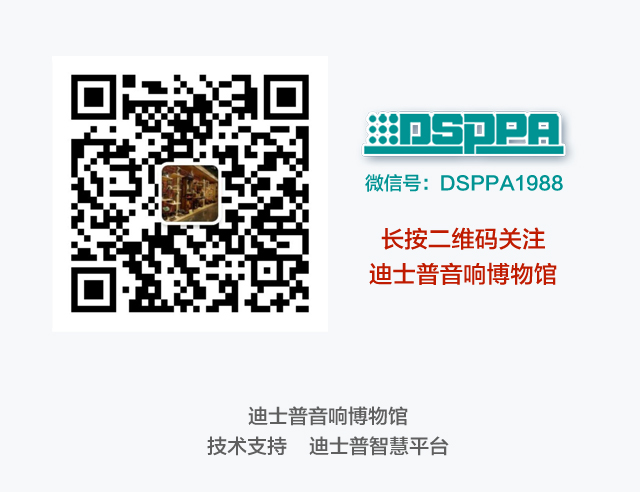
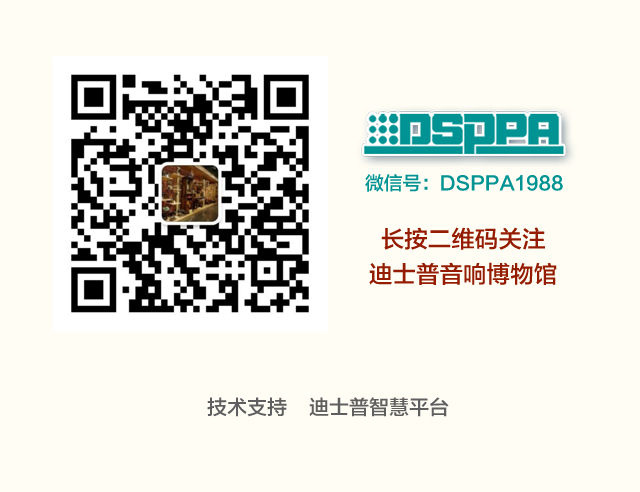
0.html

Changed region(s): [[0.3125, 0.7927, 0.7188, 0.9451], [0.5625, 0.4573, 0.875, 0.5793]]

diff --git a/other/video_0.css b/other/video_0.css
@@ -42,7 +42,14 @@ IMG {
 }
 /* Main */
 .mainContent{color: #333333;padding: 15px;font-family: "Helvetica Neue",Helvetica,Arial;}
-.mainContent .content{font-size: 1.1rem;line-height: 150%;border-bottom: 2px solid #d9dde3;word-wrap: break-word;}
+.mainContent .content{
+	font-size: 1.1rem;
+	line-height: 150%;
+	word-wrap: break-word;
+	border-bottom-width: 2px;
+	border-bottom-style: none;
+	border-bottom-color: #d9dde3;
+}
 .mainContent .content p{padding-bottom: 15px;word-wrap: break-word;}
 .mainContent .content img{width: 100%;height: auto;}
 
@@ -67,5 +74,6 @@ IMG {
 	PADDING-BOTTOM: 15px; PADDING-LEFT: 15px; PADDING-RIGHT: 15px; PADDING-TOP: 15px
 }
 .code IMG {
-	BORDER-BOTTOM: #d9dde3 2px dotted; BORDER-LEFT: #d9dde3 2px dotted; BORDER-TOP: #d9dde3 2px dotted; BORDER-RIGHT: #d9dde3 2px dotted; border-radius: 8px
+	border-radius: 8px;
+	border: 2px dotted #FFC559;
 }

diff --git a/0.html b/0.html
@@ -7,7 +7,7 @@
 <META name=viewport content="width=device-width, initial-scale=1.0, maximum-scale=1.0, user-scalable=0;">
 <META name=keywords content="">
 
-<link href="other/video.css" rel="stylesheet" type="text/css">
+<link href="other/video_0.css" rel="stylesheet" type="text/css">
 
 <title>迪士普博物馆</title>
 
